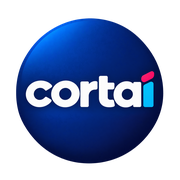
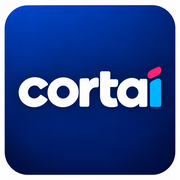
Changes

diff --git a/roadmap.md b/roadmap.md
@@ -32,4 +32,4 @@
 - [x] Validar links, 390/1280px, TypeScript, lint, testes e build; não publicar
 - [x] Aplicar direção clean corporativa à Home `/apresentacao`, usando a logo oficial e mockups reais
 
-- [ ] Aplicar a imagem quadrada enviada somente como ícone do aplicativo, preservando as logos existentes
+- [x] Aplicar a imagem quadrada enviada somente como ícone do aplicativo, preservando as logos existentes
